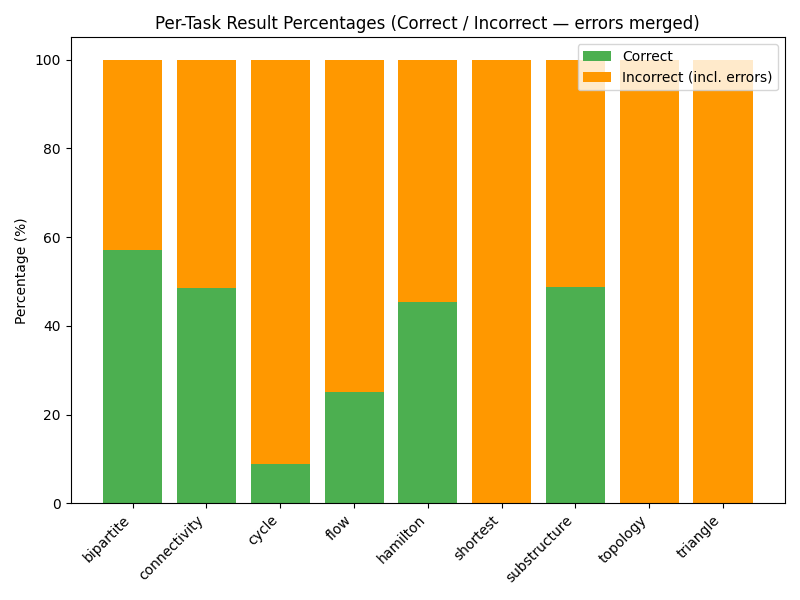
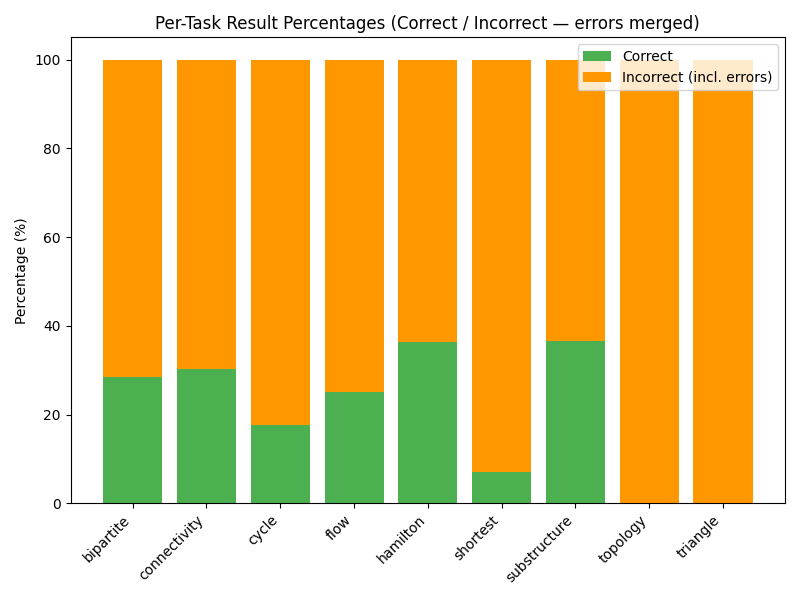
Llama base results

diff --git a/project/langgraph_multi_agent.py b/project/langgraph_multi_agent.py
@@ -13,7 +13,33 @@ load_dotenv()
 # 1. STATE DEFINITION (MEMORY)
 # ==========================================
 
-client = ChatOpenAI(model="mistralai/ministral-8b", base_url="https://openrouter.ai/api/v1")
+# Global client used by all nodes. Configure via `configure_client`.
+client: ChatOpenAI | None = None
+
+
+def configure_client(model_choice: str) -> None:
+    """Configure the global ChatOpenAI client for OpenRouter.
+
+    - "mistral": uses the current Mistral model (as before)
+    - "llama": uses meta-llama/llama-3.1-8b-instruct with Groq provider
+
+    OpenRouter provider filtering is set via request body using:
+      {"provider": {"allow": ["Groq"]}}
+    which is passed through using `model_kwargs`.
+    """
+    global client
+
+    if model_choice == "mistral":
+        client = ChatOpenAI(model="mistralai/ministral-8b", base_url="https://openrouter.ai/api/v1")
+    elif model_choice == "llama":
+        client = ChatOpenAI(
+            model="meta-llama/llama-3.1-8b-instruct",
+            base_url="https://openrouter.ai/api/v1",
+            # Restrict to Groq provider on OpenRouter
+            extra_body={"provider": {"only": ["Groq"]}},
+        )
+    else:
+        raise ValueError(f"Unknown model_choice: {model_choice}")
 
 
 class GraphState(TypedDict):

diff --git a/project/test_all_tasks.py b/project/test_all_tasks.py
@@ -4,6 +4,7 @@ from langgraph_multi_agent import (
     build_consensus_solver,
     GraphState,
     verify_answer,
+    configure_client,
 )
 
 from preprocess import preprocess_graphwiz
@@ -40,6 +41,12 @@ def main():
         choices=["backtracking", "consensus"],
         help="Which solver graph to use",
     )
+    parser.add_argument(
+        "--model",
+        required=True,
+        choices=["mistral", "llama"],
+        help="LLM to use: 'mistral' (default) or 'llama' (Groq via OpenRouter)",
+    )
     args = parser.parse_args()
     results_file = "test_results.txt"
     with open(results_file, "w", encoding="utf-8") as f:
@@ -50,6 +57,10 @@ def main():
         max_examples = 200
 
         f.write(f"Testing first {max_examples} examples from test set...\n")
+
+        # Configure model selection (mistral or llama@Groq)
+        configure_client(args.model)
+        f.write(f"Using model: {args.model}\n")
 
         # Build the solver once
         if args.solver == "consensus":
